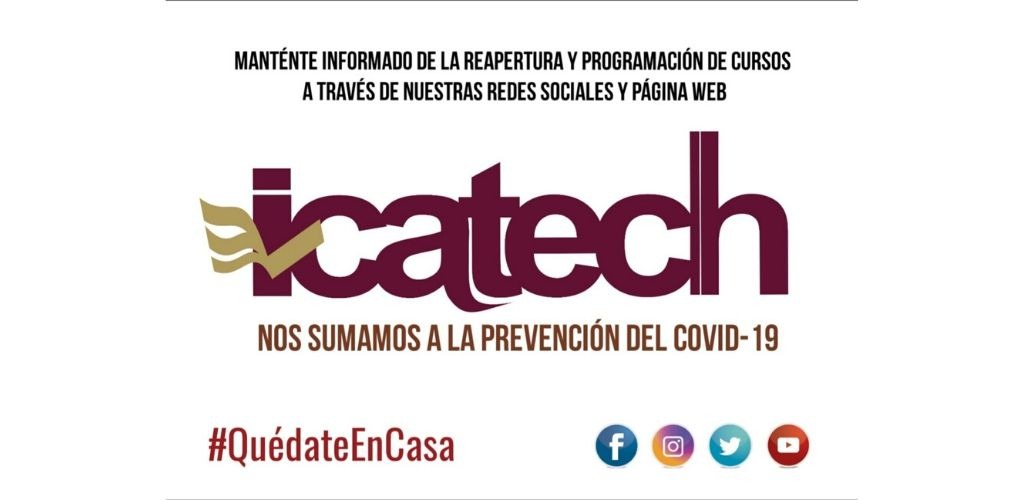
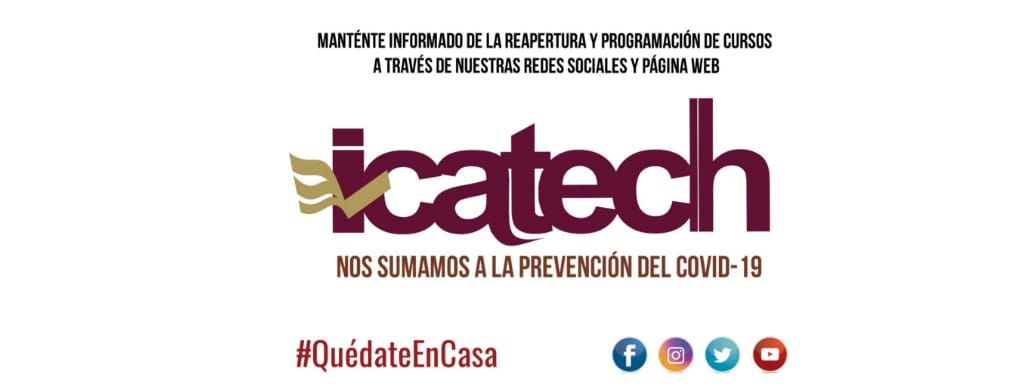
modificacion de imagen principal

diff --git a/resources/views/theme/lte/header.blade.php b/resources/views/theme/lte/header.blade.php
@@ -29,6 +29,6 @@
 
 
 	<section class="dzsparallaxer auto-init height-is-based-on-content use-loading mode-scroll dzsprx-readyall loaded" data-options="{direction: &quot;normal&quot;, settings_mode_oneelement_max_offset: &quot;150&quot;}" style="height: 380px">
-		<div class="divimage dzsparallaxer--target w-100 u-bg-overlay g-bg-img-hero g-bg-bluegray-opacity-0_3--after " style="height: 100%; background-image: url('{{asset('/Imagenes Pagina/covid19_icatech.png')}}'); transform: translate3d(0px, 0px, 0px);">
+		<div class="divimage dzsparallaxer--target w-100 u-bg-overlay g-bg-img-hero g-bg-bluegray-opacity-0_3--after " style="height: 100%; background-image: url('{{asset('/Imagenes Pagina/covid19_icatech.jpeg')}}'); background-size: 1108px 380px; transform: translate3d(0px, 0px, 0px);">
 		</div>
 	</section>
